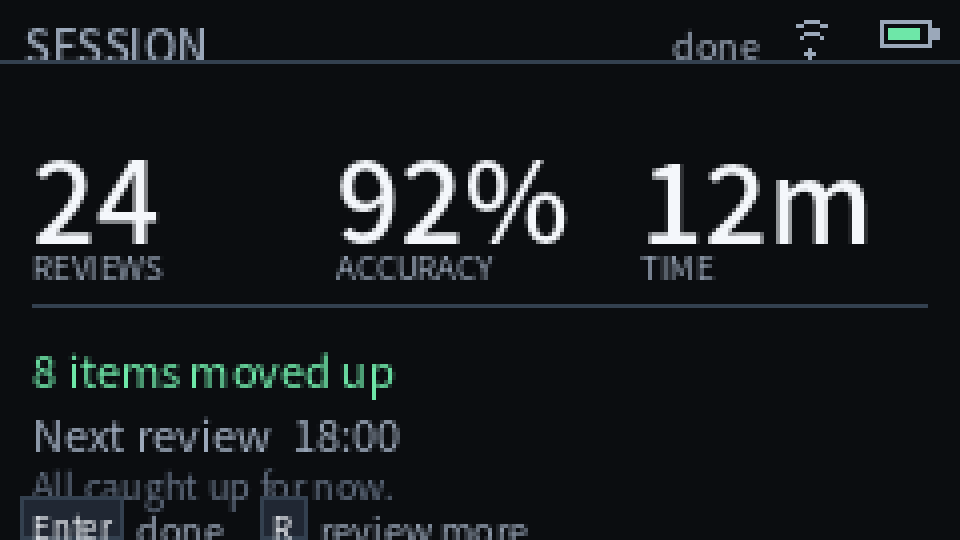
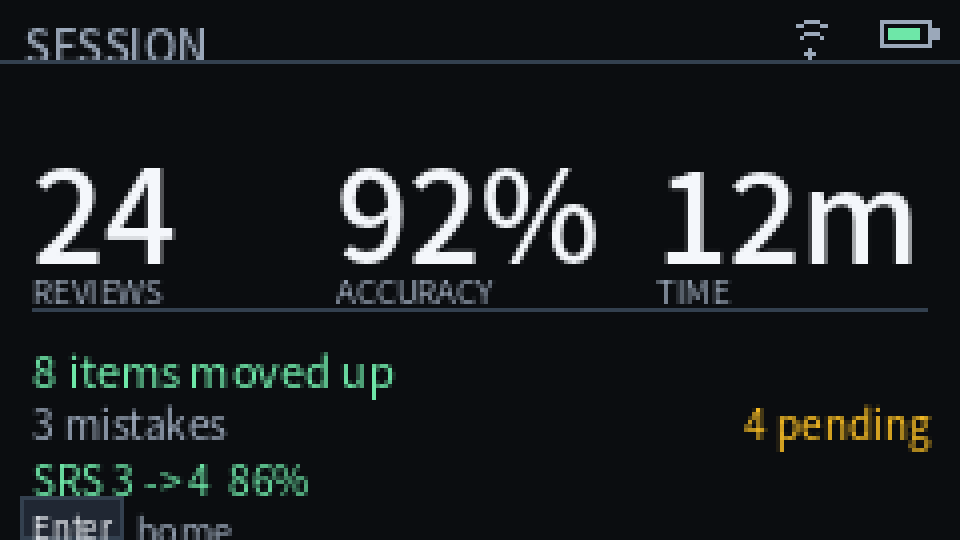
feat: show accuracy and time in the session summary

diff --git a/firmware/src/main.cpp b/firmware/src/main.cpp
@@ -42,6 +42,7 @@
 #include "wk/ReviewQueue.h"
 #include "wk/ReviewResponse.h"
 #include "wk/RomajiIme.h"
+#include "wk/SessionStats.h"
 #include "wk/Time.h"
 #include "wk/Utf8.h"
 
@@ -117,6 +118,9 @@ struct StageChange {
 StageChange gStageChange;
 uint32_t gPendingStageAssignment = 0;
 uint8_t gPendingStageFrom = 0;
+uint32_t gStageUps = 0;        // successful upward moves in the current session
+uint32_t gReviewStartMs = 0;   // millis() when the current session started
+uint32_t gReviewElapsedMs = 0; // latched when the summary is entered
 std::string gMeaningInput;
 std::string gDirectReading;  // test/serial reading input, bypasses the romaji IME
 kk::RomajiIme gIme;
@@ -1204,36 +1208,73 @@ void drawReviewSummary() {
     d.startWrite();
     d.fillScreen(kBg);
     d.setTextDatum(lgfx::top_left);
+    d.setTextWrap(false);
+
     d.setTextFont(1);
     d.setTextSize(1);
     d.setTextColor(kDim, kBg);
     d.drawString("SESSION", 6, 3);
-    d.setTextFont(2);
-    d.setTextSize(2);
-    d.setTextColor(kText, kBg);
-    char n[20];
-    snprintf(n, sizeof n, "%u", static_cast<unsigned>(gQueue.completedCount()));
-    d.drawString(n, 8, 30);
+
+    const kk::SessionStats stats = kk::summarizeSession(gQueue.completed());
+    char reviews[16];
+    snprintf(reviews, sizeof reviews, "%u", static_cast<unsigned>(gQueue.completedCount()));
+    char accuracy[16];
+    snprintf(accuracy, sizeof accuracy, "%u%%", static_cast<unsigned>(stats.accuracy));
+    char duration[16];
+    kk::formatSessionDuration(gReviewElapsedMs, duration, sizeof duration);
+
+    // 32 px values; a value that is too wide for its column falls back to 16 px
+    // so the three columns never collide.
+    auto value = [&d](const char* text, int x, int maxWidth) {
+        d.setTextFont(2);
+        d.setTextSize(2);
+        if (d.textWidth(text) > maxWidth) d.setTextSize(1);
+        d.setTextColor(kText, kBg);
+        d.drawString(text, x, 30);
+    };
+    value(reviews, 8, 72);
+    value(accuracy, 84, 74);
+    value(duration, 164, 72);
+
     d.setTextFont(0);
     d.setTextSize(1);
     d.setTextColor(kDim, kBg);
     d.drawString("REVIEWS", 8, 66);
-    unsigned mistakes = 0;
-    for (const kk::SessionItem& it : gQueue.completed())
-        mistakes += it.incorrectMeaning + it.incorrectReading;
-    char m[40];
-    snprintf(m, sizeof m, "%u mistakes", mistakes);
-    d.drawString(m, 8, 84);
+    d.drawString("ACCURACY", 84, 66);
+    d.drawString("TIME", 164, 66);
+
+    d.drawFastHLine(8, 77, 224, kLine);
+
+    char line[48];
+    if (gStageUps) {
+        snprintf(line, sizeof line, "%u item%s moved up", static_cast<unsigned>(gStageUps),
+                 gStageUps == 1 ? "" : "s");
+        d.setTextColor(kOk, kBg);
+    } else {
+        snprintf(line, sizeof line, "No stage changes");
+        d.setTextColor(kFaint, kBg);
+    }
+    d.drawString(line, 8, 84);
+
+    snprintf(line, sizeof line, "%u mistake%s", static_cast<unsigned>(stats.mistakes),
+             stats.mistakes == 1 ? "" : "s");
+    d.setTextColor(kDim, kBg);
+    d.drawString(line, 8, 98);
+
     const size_t pending = kk::outboxPendingCount(gOutbox);
     const size_t rejected = kk::outboxRejectedCount(gOutbox);
+    char outbox[40];
     if (rejected)
-        snprintf(m, sizeof m, "%u need attention", static_cast<unsigned>(rejected));
+        snprintf(outbox, sizeof outbox, "%u need attention", static_cast<unsigned>(rejected));
     else if (pending)
-        snprintf(m, sizeof m, "%u pending", static_cast<unsigned>(pending));
+        snprintf(outbox, sizeof outbox, "%u pending", static_cast<unsigned>(pending));
     else
-        snprintf(m, sizeof m, "All reviews sent");
+        snprintf(outbox, sizeof outbox, "All reviews sent");
     d.setTextColor(rejected ? kErr : pending ? kWarn : kFaint, kBg);
-    d.drawString(m, 8, 98);
+    d.setTextDatum(lgfx::top_right);
+    d.drawString(outbox, 232, 98);
+    d.setTextDatum(lgfx::top_left);
+
     const kk::Subject* lastSubject =
         gCompletedItem.subjectId ? subjectById(gCompletedItem.subjectId) : nullptr;
     if (gStageChange.valid || (lastSubject && lastSubject->hasReviewStats)) {
@@ -1353,6 +1394,7 @@ bool sendOutboxItem(uint32_t seq) {
                 gStageChange.to = update.srsStage;
                 gStageChange.from =
                     update.assignmentId == gPendingStageAssignment ? gPendingStageFrom : 0;
+                if (gStageChange.from && gStageChange.to > gStageChange.from) ++gStageUps;
                 if (gSrs.valid && gStageChange.from && gStageChange.to)
                     gSrs.moveStage(gStageChange.from, gStageChange.to);
                 Serial.printf("[review] assignment %u SRS %u -> %u\n",
@@ -1463,6 +1505,7 @@ void advanceFeedback() {
     gFeedbackCompleted = false;
     clearReviewInput();
     if (gQueue.empty()) {
+        gReviewElapsedMs = millis() - gReviewStartMs;
         gReviewActive = false;
         gReviewSummary = true;
     }
@@ -1513,6 +1556,8 @@ void startReview() {
     gStageChange = StageChange{};
     gPendingStageAssignment = 0;
     gPendingStageFrom = 0;
+    gStageUps = 0;
+    gReviewElapsedMs = 0;
     if (!gLowBatteryConfirmed && lowBatteryNow()) {
         requestLowBatteryConfirm(1);
         return;
@@ -1555,6 +1600,7 @@ void startReview() {
     }
     gReviewActive = true;
     gReviewSummary = false;
+    gReviewStartMs = millis();
     gShowHome = false;
     gPauseActive = false;
     gSettingsActive = false;

diff --git a/firmware/test/test_wk/test_wk.cpp b/firmware/test/test_wk/test_wk.cpp
@@ -22,6 +22,7 @@
 #include "wk/ReviewResponse.h"
 #include "wk/ReviewStatistics.h"
 #include "wk/RomajiIme.h"
+#include "wk/SessionStats.h"
 #include "wk/SrsCounts.h"
 #include "wk/Text.h"
 
@@ -415,6 +416,46 @@ static void test_session_lower_levels_first() {
     TEST_ASSERT_EQUAL(1, q.queue()[0].level);
     TEST_ASSERT_EQUAL(5, q.queue()[1].level);
     TEST_ASSERT_EQUAL(9, q.queue()[2].level);
+}
+
+static void test_session_stats_accuracy() {
+    SessionItem bothMistakes;
+    bothMistakes.needsMeaning = true;
+    bothMistakes.needsReading = true;
+    bothMistakes.incorrectMeaning = 1;
+    bothMistakes.incorrectReading = 1;
+    SessionItem meaningOnly;
+    meaningOnly.needsMeaning = true;
+    meaningOnly.needsReading = false;
+    SessionItem secondMeaningOnly;
+    secondMeaningOnly.needsMeaning = true;
+    secondMeaningOnly.needsReading = false;
+    const SessionStats stats =
+        summarizeSession({bothMistakes, meaningOnly, secondMeaningOnly});
+    TEST_ASSERT_EQUAL_UINT32(4, stats.parts);
+    TEST_ASSERT_EQUAL_UINT32(2, stats.mistakes);
+    TEST_ASSERT_EQUAL_UINT32(67, stats.accuracy);
+
+    TEST_ASSERT_EQUAL_UINT32(0, sessionAccuracyPercent(0, 0));
+    TEST_ASSERT_EQUAL_UINT32(0, sessionAccuracyPercent(0, 4));
+    TEST_ASSERT_EQUAL_UINT32(100, sessionAccuracyPercent(5, 0));
+    TEST_ASSERT_EQUAL_UINT32(75, sessionAccuracyPercent(3, 1));
+    TEST_ASSERT_EQUAL_UINT32(67, sessionAccuracyPercent(2, 1));
+    TEST_ASSERT_EQUAL_UINT32(33, sessionAccuracyPercent(1, 2));
+}
+
+static void test_session_duration_text() {
+    char out[16];
+    formatSessionDuration(0, out, sizeof out);
+    TEST_ASSERT_EQUAL_STRING("0s", out);
+    formatSessionDuration(42900, out, sizeof out);
+    TEST_ASSERT_EQUAL_STRING("42s", out);
+    formatSessionDuration((12u * 60u + 59u) * 1000u, out, sizeof out);
+    TEST_ASSERT_EQUAL_STRING("12m", out);
+    formatSessionDuration((1u * 3600u + 5u * 60u) * 1000u, out, sizeof out);
+    TEST_ASSERT_EQUAL_STRING("1h 5m", out);
+    formatSessionDuration(3600u * 1000u, out, sizeof out);
+    TEST_ASSERT_EQUAL_STRING("1h 0m", out);
 }
 
 
@@ -1118,6 +1159,8 @@ int main(int, char**) {
     RUN_TEST(test_session_filters_and_limit);
     RUN_TEST(test_session_skip);
     RUN_TEST(test_session_lower_levels_first);
+    RUN_TEST(test_session_stats_accuracy);
+    RUN_TEST(test_session_duration_text);
     RUN_TEST(test_cardputer_characters);
     RUN_TEST(test_cardputer_modifiers);
     RUN_TEST(test_cardputer_event_fields);

diff --git a/firmware/src/wk/SessionStats.h b/firmware/src/wk/SessionStats.h
@@ -1,0 +1,54 @@
+#pragma once
+// Pure helpers for the session summary: completed parts, mistakes, accuracy
+// and the compact elapsed-time text. No Arduino or display dependencies.
+#include <cstddef>
+#include <cstdint>
+#include <cstdio>
+#include <vector>
+
+#include "wk/ReviewQueue.h"
+
+namespace kk {
+
+struct SessionStats {
+    uint32_t parts = 0;      // required answers in completed items
+    uint32_t mistakes = 0;   // wrong attempts across those parts
+    uint32_t accuracy = 0;   // percent of answers that were finally correct
+};
+
+// Each completed item ends with every required part correct, so accuracy is
+// the number of parts divided by the parts plus the wrong attempts.
+inline uint32_t sessionAccuracyPercent(uint32_t parts, uint32_t mistakes) {
+    const uint64_t total = static_cast<uint64_t>(parts) + mistakes;
+    if (total == 0) return 0;
+    const uint64_t scaled = static_cast<uint64_t>(parts) * 100u;
+    return static_cast<uint32_t>((scaled + total / 2u) / total);
+}
+
+inline SessionStats summarizeSession(const std::vector<SessionItem>& completed) {
+    SessionStats stats;
+    for (const SessionItem& item : completed) {
+        stats.parts += static_cast<uint32_t>(item.needsMeaning) +
+                       static_cast<uint32_t>(item.needsReading);
+        stats.mistakes += item.incorrectMeaning + item.incorrectReading;
+    }
+    stats.accuracy = sessionAccuracyPercent(stats.parts, stats.mistakes);
+    return stats;
+}
+
+// 42s, 12m or 1h 5m. Whole seconds/minutes, matching the wall clock the user
+// sees; an exact hour is shown as 1h 0m.
+inline void formatSessionDuration(uint32_t elapsedMs, char* out, size_t size) {
+    if (!out || size == 0) return;
+    const uint32_t seconds = elapsedMs / 1000u;
+    if (seconds < 60u) {
+        snprintf(out, size, "%us", static_cast<unsigned>(seconds));
+    } else if (seconds < 3600u) {
+        snprintf(out, size, "%um", static_cast<unsigned>(seconds / 60u));
+    } else {
+        snprintf(out, size, "%uh %um", static_cast<unsigned>(seconds / 3600u),
+                 static_cast<unsigned>((seconds / 60u) % 60u));
+    }
+}
+
+}  // namespace kk

diff --git a/tools/mockups/render.py b/tools/mockups/render.py
@@ -307,20 +307,21 @@ def screen_lesson() -> Image.Image:
 def screen_summary() -> Image.Image:
     im = Image.new("RGB", (W, H), BG)
     d = ImageDraw.Draw(im)
-    header(d, "SESSION", "done", pct=84)
+    header(d, "SESSION", pct=84)
 
     cols = [("24", "REVIEWS"), ("92%", "ACCURACY"), ("12m", "TIME")]
-    xs = [8, 84, 160]
+    xs = [8, 84, 164]
     for (value, label), x in zip(cols, xs):
-        text(d, (x, 28), value, 28, TEXT, medium=True)
-        text(d, (x, 60), label, 8, DIM)
-    rect(d, 8, 76, 224, 1, LINE)
+        text(d, (x, 28), value, 32, TEXT, medium=True)
+        text(d, (x, 66), label, 8, DIM)
+    rect(d, 8, 77, 224, 1, LINE)
 
     text(d, (8, 84), "8 items moved up", 11, OK)
-    text(d, (8, 100), "Next review  18:00", 11, DIM)
-    text(d, (8, 114), "All caught up for now.", 9, FAINT)
+    text(d, (8, 98), "3 mistakes", 10, DIM)
+    text(d, (232, 98), "4 pending", 10, WARN, anchor="ra")
+    text(d, (8, 112), "SRS 3 -> 4  86%", 10, OK)
 
-    hints(d, [("Enter", "done"), ("R", "review more")], [])
+    hints(d, [("Enter", "home")], [])
     return im
 
 

diff --git a/ROADMAP.md b/ROADMAP.md
@@ -48,7 +48,8 @@ Working on hardware:
   synthetic cached review.
 - Review statistics: `/review_statistics` is fetched for review subjects and
   merged into the cached subject. The review header shows lifetime accuracy
-  (`SRS 1 86%`) and the session summary shows the last item's history
+  (`SRS 1 86%`) and the session summary combines the stage from the last
+  successful `POST /reviews` with the last completed item's history
   (`History 18 reviews, 89%`).
 - Level progress: `/level_progressions` is fetched on sync and cached. Home
   shows the current level's unlock date in the low-priority status line
@@ -96,11 +97,11 @@ Working on hardware:
   failures, with `Enter` retry. The M0 debug screen is dev-build only.
 - 8-bit RGB332 canvas (32.4 KB), static 32 KB HTTP body buffer, dim/blank/deep
   sleep, screenshot capture.
-- 48 native tests pass. GitHub Actions runs gitleaks on `main`.
+- 50 native tests pass. GitHub Actions runs gitleaks on `main`.
 
-Current build: **1,392,789 B / 1,835,008 B flash (75.9%)**, **94,600 B /
-327,680 B static RAM (28.9%)**. The dev image is 1,399,885 B. Removing
-`efontJA_16` freed ~468 KB and leaves ~442 KB of flash headroom.
+Current build: **1,393,601 B / 1,835,008 B flash (75.9%)**, **94,616 B /
+327,680 B static RAM (28.9%)**. The dev image is 1,400,641 B. Removing
+`efontJA_16` freed ~468 KB and leaves ~441 KB of flash headroom.
 
 ## Priority summary
 
@@ -112,7 +113,7 @@ Current build: **1,392,789 B / 1,835,008 B flash (75.9%)**, **94,600 B /
 | 4 | WaniKani data and preferences | Synonyms, notes, review order, vacation, SRS, review stats, level progress, vocabulary details and related subjects are live; review history and audio remain | Partial | WK-11, EXT-06 |
 | 5 | Outbox and API robustness | Rejected items, 429 and invalid auth have no user path | Partial | API-01, API-02 |
 | 6 | Setup, settings and pause | Setup, pause, settings, low battery and error screens work | Done | — |
-| 7 | UI, stats and sync | Missing accuracy; the SRS bar, sync screen and item detail are live | Partial | UI-03, UI-05 |
+| 7 | UI, stats and sync | Accuracy, the SRS bar, sync screen and item detail are live | Partial | UI-05 |
 | 8 | Tangocho modules | Reuse the portal, OTA, widgets, storage and sleep plumbing | Portal ported; OTA/widgets pending | TNG-02, TNG-03 |
 | 9 | Technical debt, CI and release | Maintainability and shipping | Ongoing | TECH-01, TECH-04 |
 | 10 | Kakehashi-inspired extras | Valuable after v1; not all fit a keyboard device | Not started | EXT-01, EXT-03 |
@@ -131,7 +132,7 @@ lesson flow.
 | 3 | Setup and device UX | TNG-02 | OTA release path (setup/settings complete) |
 | 4 | WaniKani data and detail | WK-11 (WK-01/03/04/05/06/07/08/09/10 done) | Review history and progress |
 | 5 | API robustness | API-01 → API-07 | Recoverable rejected, rate-limited and auth errors |
-| 6 | UI, stats and sync | UI-03 → UI-08 (UI-01/02/04 done) | Accuracy and polish |
+| 6 | UI, stats and sync | UI-05 → UI-08 (UI-01/02/03/04 done) | Polish |
 | 7 | Technical debt and release | TECH-01 → TECH-07 | CI, refactor, version, OTA and license |
 | 8 | Kakehashi-inspired extras | EXT-01 → EXT-09 | Practice modes, critical items, audio and stats |
 
@@ -391,7 +392,14 @@ the device; account/study preferences and clear error actions remain.
   failures are warnings and do not block the sync. Hardware-verified on
   2026-10-28 with a forced Summary failure; normal sync returned to Home.
 - **UI-03 — Session summary.** Accuracy, time, completed items, mistakes and
-  SRS stage changes, not only counts.
+  SRS stage changes, not only counts. **Done (2026-10-28):** three columns for
+  reviews, accuracy and time; a per-session upward-stage count comparing each
+  successful `POST /reviews` response with the stage tracked in the pending
+  assignment; mistakes, outbox, and a last-item line whose stage comes from the
+  last successful POST but whose history comes from the last completed item.
+  These can differ while that item's POST is still pending.
+  Accuracy and duration are in native-tested `wk/SessionStats.h`; the session
+  timer is a non-persistent `millis()` value latched when the summary opens.
 - **UI-04 — Item detail screen.** Mnemonics, components, notes, synonyms and
   readings; open from review feedback. **Done (2026-10-28):** `Tab` on feedback
   opens a 5-page card; `Space` pages, `Tab`/`Esc` returns. Verified on hardware

diff --git a/docs/ux.md b/docs/ux.md
@@ -406,15 +406,34 @@ and `Tab`/`Esc` returns to feedback.
 
 ![Summary](screens/summary.png)
 
-- `SESSION`.
-- Three columns: reviews, accuracy, time.
-- `8 items moved up` (or `No stage changes`). The live build shows the last
-  parsed stage as `SRS 3 -> 4` when the POST returned it, and appends the last
-  item's lifetime accuracy (`History 18 reviews, 89%`) when statistics are
-  cached.
-- `Next review 18:00` and, if applicable, `All caught up for now`.
-- If there's an outbox: `4 reviews waiting to sync` in `warn`.
-- `Enter done`, `R review more`.
+- Header `SESSION`.
+- Three columns at x=8/84/164 with 32 px values and 8 px labels:
+  - `REVIEWS`: completed reviews.
+  - `ACCURACY`: final correct answers / (final answers + wrong attempts),
+    rounded. Each required meaning/reading part counts once.
+  - `TIME`: elapsed wall-clock time, e.g. `42s`, `12m`, `1h 5m`.
+- Divider, then:
+  - `8 items moved up` in green, or `No stage changes` in faint. A successful
+    `POST /reviews` counts only when its new stage is above the stage recorded
+    when the review was queued; the response carries the new stage, not the old
+    one.
+  - `3 mistakes` on the left and the outbox state on the right: `4 pending` in
+    amber, `1 need attention` in red, or `All reviews sent` in faint.
+  - The item line combines two sources. The stage comes from the last
+    successful `POST /reviews` (`gStageChange`; its previous stage is the one
+    tracked in the pending assignment), while the lifetime accuracy/history
+    comes from the last completed item (`gCompletedItem`). They can differ when
+    that item's POST is still pending. Examples: `SRS 3 -> 4  86%`,
+    `SRS 3  86%`, or `History 18 reviews, 89%`.
+- `Enter: home`.
+
+**Implementation note (2026-10-28).** The values use the built-in 32 px font
+and fall back to 16 px if one would cross its column. Accuracy and duration
+live in native-tested `wk/SessionStats.h`; the session start is a `millis()`
+timestamp and the final duration is latched when the summary opens. It is not
+persisted. Offline completions do not count as stage changes because there is
+no POST response; they still become `gCompletedItem` and can update the
+history/accuracy side of the item line.
 
 ### 5.8 Lessons
 
